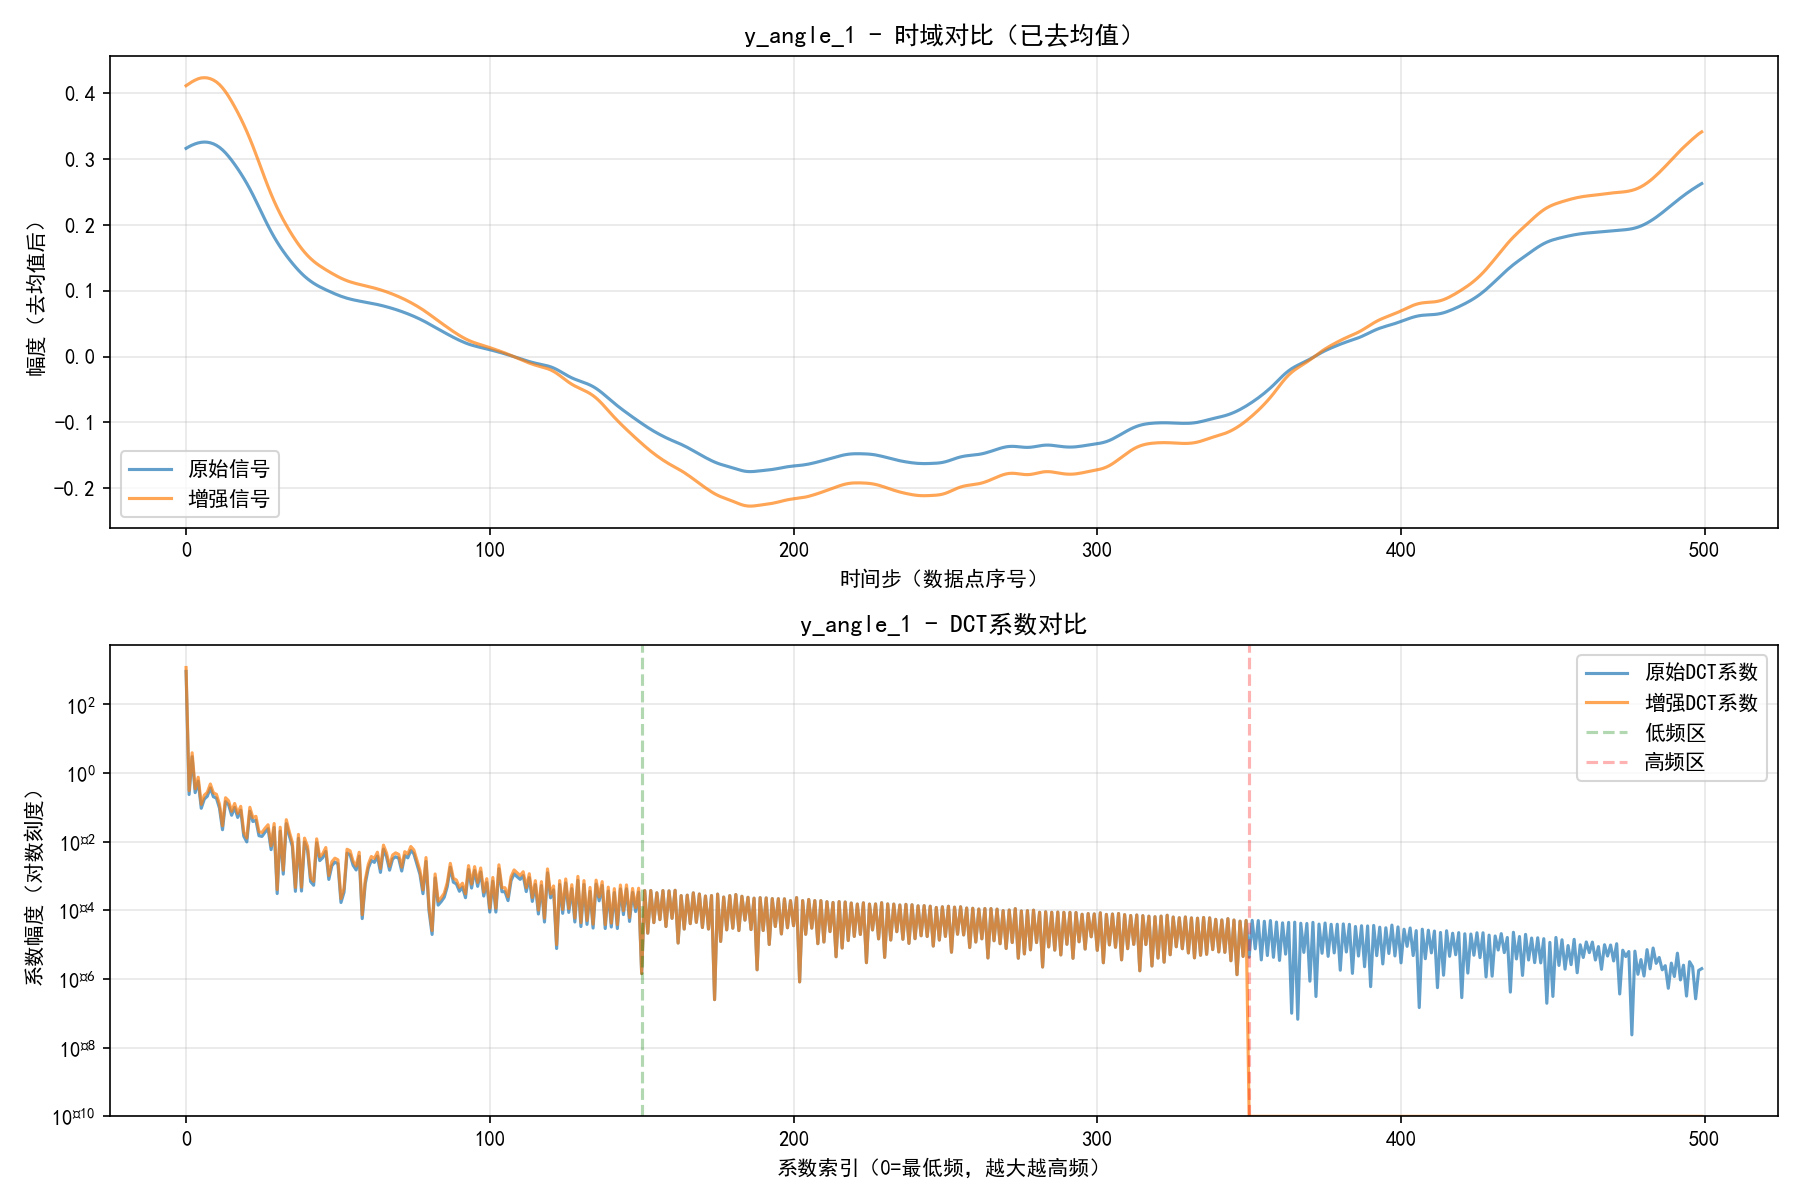
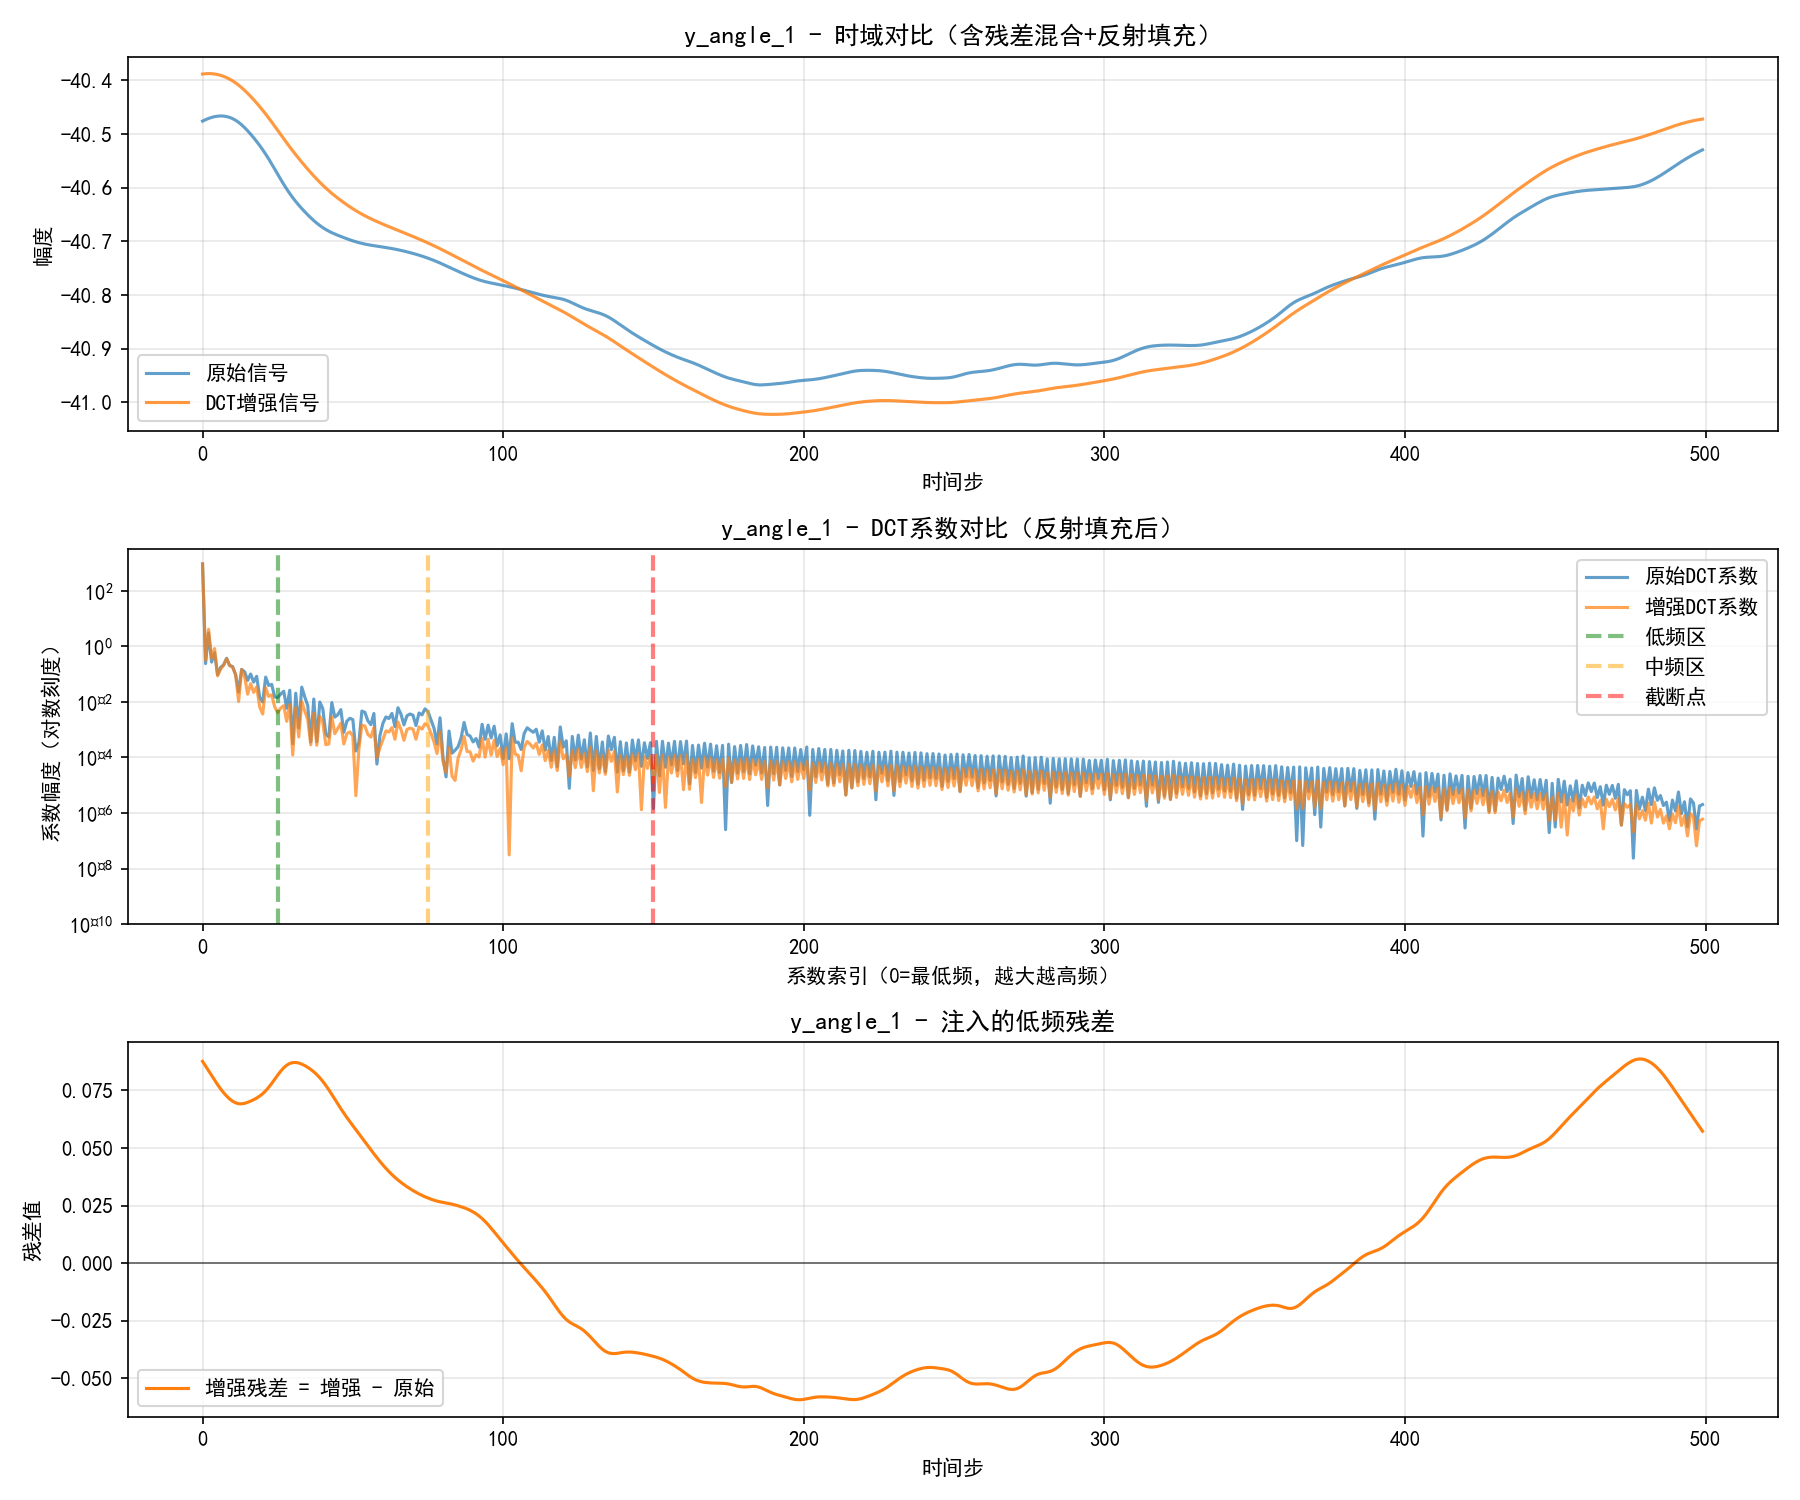
提高了数据增强效果

diff --git a/utils/dct_enhancement.py b/utils/dct_enhancement.py
@@ -12,18 +12,38 @@ plt.rcParams['axes.unicode_minus'] = False
 
 
 class DCTEnhancer:
-    """DCT信号增强器"""
+    """DCT信号增强器 - 参考FFT增强器优化版"""
     
-    def __init__(self, low_freq_boost=1.2, high_freq_suppress=0.3, cutoff_ratio=0.7):
+    def __init__(
+        self, 
+        low_freq_boost=1.5, 
+        mid_freq_boost=1.0,
+        high_freq_suppress=0.15, 
+        cutoff_ratio=0.3,
+        low_freq_ratio=0.05,
+        high_freq_ratio=0.15,
+        residual_ratio=0.7,
+        reflection_pad=64
+    ):
         """
         参数:
             low_freq_boost: 低频增强系数 (>1.0 增强, <1.0 抑制)
+            mid_freq_boost: 中频增强系数 (通常为 1.0)
             high_freq_suppress: 高频抑制系数 (0-1之间)
             cutoff_ratio: 保留系数的比例 (0-1之间)
+            low_freq_ratio: 低频区域比例 (0-1之间)
+            high_freq_ratio: 高频区域起始比例 (0-1之间)
+            residual_ratio: 残差混合比例 (0-1之间, 1.0表示完全使用增强信号)
+            reflection_pad: 反射填充长度
         """
         self.low_freq_boost = low_freq_boost
+        self.mid_freq_boost = mid_freq_boost
         self.high_freq_suppress = high_freq_suppress
         self.cutoff_ratio = cutoff_ratio
+        self.low_freq_ratio = low_freq_ratio
+        self.high_freq_ratio = high_freq_ratio
+        self.residual_ratio = float(np.clip(residual_ratio, 0.0, 1.0))
+        self.reflection_pad = max(0, int(reflection_pad))
     
     def enhance(self, signal):
         """
@@ -35,33 +55,62 @@ class DCTEnhancer:
         返回:
             enhanced_signal: 增强后的信号
         """
+        if signal.ndim != 1:
+            raise ValueError('信号必须是一维向量')
+        
+        n = signal.size
+        signal_mean = float(np.mean(signal))
+        detrended = signal - signal_mean
+        
+        # 反射填充以减少边界效应
+        pad = min(self.reflection_pad, max(0, n // 2))
+        if pad > 0:
+            working = np.pad(detrended, pad_width=pad, mode='reflect')
+        else:
+            working = detrended
+        
         # 1. DCT变换
-        dct_coeffs = dct(signal, type=2, norm='ortho')
+        dct_coeffs = dct(working, type=2, norm='ortho')
         
         # 2. 计算截断点
-        n = len(dct_coeffs)
-        cutoff_idx = int(n * self.cutoff_ratio)
+        n_coeffs = len(dct_coeffs)
+        cutoff_idx = int(n_coeffs * self.cutoff_ratio)
+        low_idx = int(n_coeffs * self.low_freq_ratio)
+        high_idx = int(n_coeffs * self.high_freq_ratio)
         
-        # 3. 自适应加权
-        weights = np.ones(n)
+        # 3. 自适应加权 - 完全匹配 FFT 的逻辑
+        weights = np.ones(n_coeffs)
         
-        # 低频增强 (前30%系数)
-        low_idx = int(n * 0.3)
-        weights[:low_idx] = self.low_freq_boost
+        # 低频增强
+        weights[:low_idx] *= self.low_freq_boost
         
-        # 高频抑制 (后30%系数)
-        high_idx = int(n * 0.7)
-        weights[high_idx:] = self.high_freq_suppress
+        # 中频保持或增强
+        weights[low_idx:high_idx] *= self.mid_freq_boost
         
-        # 超过截断点的系数置零
-        weights[cutoff_idx:] = 0
+        # 高频抑制（从 high_idx 到末尾）
+        weights[high_idx:] *= self.high_freq_suppress
+        
+        # 超过截断点的系数置零（这会覆盖之前的高频抑制）
+        weights[cutoff_idx:] = 0.0
         
         # 4. 应用权重
         enhanced_coeffs = dct_coeffs * weights
         
         # 5. 逆DCT变换
-        enhanced_signal = idct(enhanced_coeffs, type=2, norm='ortho')
+        enhanced_working = idct(enhanced_coeffs, type=2, norm='ortho')
         
+        # 去除填充
+        if pad > 0:
+            enhanced_signal = enhanced_working[pad:-pad]
+        else:
+            enhanced_signal = enhanced_working
+        
+        # 恢复均值
+        enhanced_signal += signal_mean
+        
+        # 残差混合
+        if self.residual_ratio < 1.0:
+            return signal + self.residual_ratio * (enhanced_signal - signal)
         return enhanced_signal
     
     def enhance_batch(self, signals):
@@ -80,7 +129,7 @@ class DCTEnhancer:
         return enhanced
 
 
-def compare_signals(original, enhanced, title='信号对比', save_path=None):
+def compare_signals(original, enhanced, title='信号对比', save_path=None, show_residual=True):
     """
     对比原始信号和增强信号
     
@@ -89,19 +138,19 @@ def compare_signals(original, enhanced, title='信号对比', save_path=None):
         enhanced: 增强后的信号
         title: 图表标题
         save_path: 保存路径 (可选)
+        show_residual: 是否显示残差图
     """
     
-    fig, axes = plt.subplots(2, 1, figsize=(12, 8))
+    residual = enhanced - original
+    rows = 3 if show_residual else 2
+    fig, axes = plt.subplots(rows, 1, figsize=(12, 10 if show_residual else 8))
     
-    # 时域对比 - 去除均值以对齐基线
-    original_centered = original - np.mean(original)
-    enhanced_centered = enhanced - np.mean(enhanced)
-    
-    axes[0].plot(original_centered, label='原始信号', alpha=0.7, linewidth=1.5)
-    axes[0].plot(enhanced_centered, label='增强信号', alpha=0.7, linewidth=1.5)
-    axes[0].set_title(f'{title} - 时域对比（已去均值）')
-    axes[0].set_xlabel('时间步（数据点序号）')
-    axes[0].set_ylabel('幅度（去均值后）')
+    # 时域对比
+    axes[0].plot(original, label='原始信号', alpha=0.7, linewidth=1.5)
+    axes[0].plot(enhanced, label='DCT增强信号', alpha=0.8, linewidth=1.5)
+    axes[0].set_title(f'{title} - 时域对比（含残差混合+反射填充）')
+    axes[0].set_xlabel('时间步')
+    axes[0].set_ylabel('幅度')
     axes[0].legend()
     axes[0].grid(True, alpha=0.3)
     
@@ -116,19 +165,30 @@ def compare_signals(original, enhanced, title='信号对比', save_path=None):
     
     axes[1].plot(original_dct_clean, label='原始DCT系数', alpha=0.7, linewidth=1.5)
     axes[1].plot(enhanced_dct_clean, label='增强DCT系数', alpha=0.7, linewidth=1.5)
-    axes[1].set_title(f'{title} - DCT系数对比')
+    axes[1].set_title(f'{title} - DCT系数对比（反射填充后）')
     axes[1].set_xlabel('系数索引（0=最低频，越大越高频）')
     axes[1].set_ylabel('系数幅度（对数刻度）')
     axes[1].legend()
-    axes[1].grid(True, alpha=0.3)
+    axes[1].grid(True, alpha=0.3, which='both')
     axes[1].set_yscale('log')
-    axes[1].set_ylim([threshold, None])  # 设置纵轴下限
+    axes[1].set_ylim([threshold, None])
     
     # 添加频率区域标注
     n = len(original_dct)
-    axes[1].axvline(n*0.3, color='green', linestyle='--', alpha=0.3, label='低频区')
-    axes[1].axvline(n*0.7, color='red', linestyle='--', alpha=0.3, label='高频区')
+    axes[1].axvline(n*0.05, color='green', linestyle='--', alpha=0.5, linewidth=2, label='低频区')
+    axes[1].axvline(n*0.15, color='orange', linestyle='--', alpha=0.5, linewidth=2, label='中频区')
+    axes[1].axvline(n*0.3, color='red', linestyle='--', alpha=0.5, linewidth=2, label='截断点')
     axes[1].legend()
+    
+    # 残差图
+    if show_residual:
+        axes[2].plot(residual, color='tab:orange', label='增强残差 = 增强 - 原始')
+        axes[2].axhline(0, color='k', linewidth=0.8, alpha=0.6)
+        axes[2].set_title(f'{title} - 注入的低频残差')
+        axes[2].set_xlabel('时间步')
+        axes[2].set_ylabel('残差值')
+        axes[2].legend()
+        axes[2].grid(True, alpha=0.3)
     
     plt.tight_layout()
     

diff --git a/test_dct.py b/test_dct.py
@@ -25,11 +25,15 @@ if __name__ == '__main__':
     # 测试三个通道
     channels = ['x_angle_1', 'y_angle_1', 'z_angle_1']
     
-    # 创建增强器
+    # 创建增强器 - 参考FFT增强器的激进参数（极致平滑版）
     enhancer = DCTEnhancer(
-        low_freq_boost=1.3,      # 低频增强30%
-        high_freq_suppress=0.2,  # 高频抑制到20%
-        cutoff_ratio=0.7         # 保留70%的系数
+        low_freq_boost=1.5,       # 低频增强50%
+        high_freq_suppress=0.15,  # 高频抑制到15%
+        cutoff_ratio=0.05,        # 只保留5%的低频系数（接近FFT的2%）
+        low_freq_ratio=0.01,      # 低频区域：前1%
+        high_freq_ratio=0.03,     # 高频区域：3%之后
+        residual_ratio=0.7,       # 残差混合70%
+        reflection_pad=128        # 反射填充128个点（增加平滑度）
     )
     
     for channel in channels:
@@ -40,6 +44,10 @@ if __name__ == '__main__':
         
         # 增强
         enhanced = enhancer.enhance(signal)
+        
+        # 计算残差统计
+        delta = enhanced - signal
+        print(f"  残差均值 {delta.mean():.4e}, 残差标准差 {delta.std():.4e}, 峰值 {delta.max():.4f}/{delta.min():.4f}")
         
         # 对比并保存
         save_path = f'./dct_results/{channel}_comparison.png'
